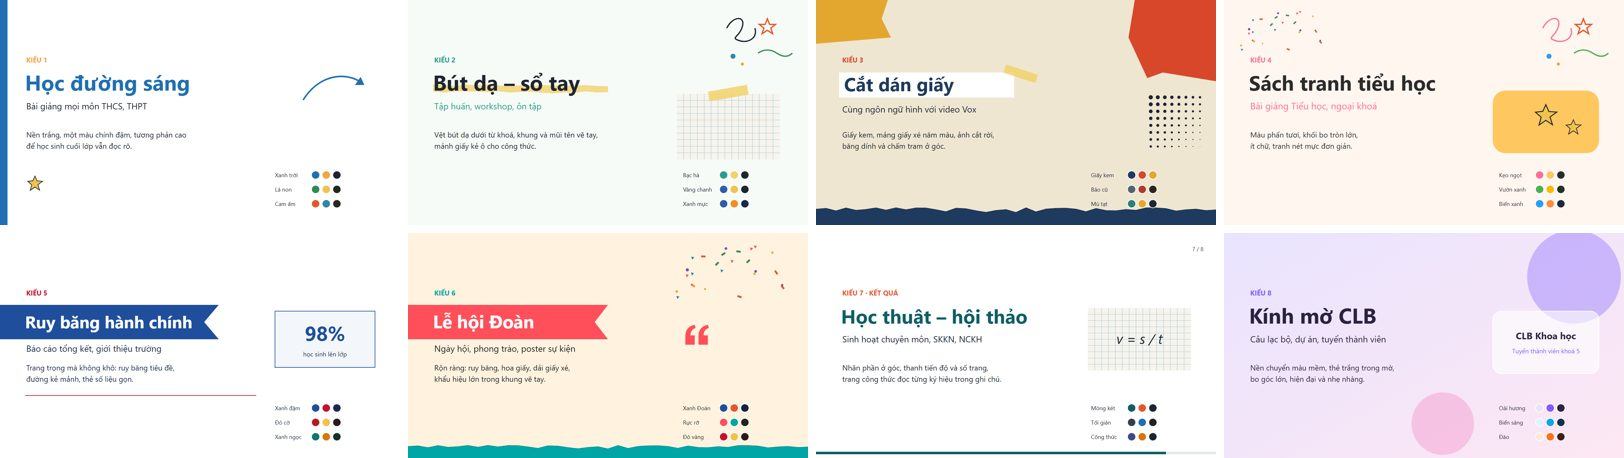
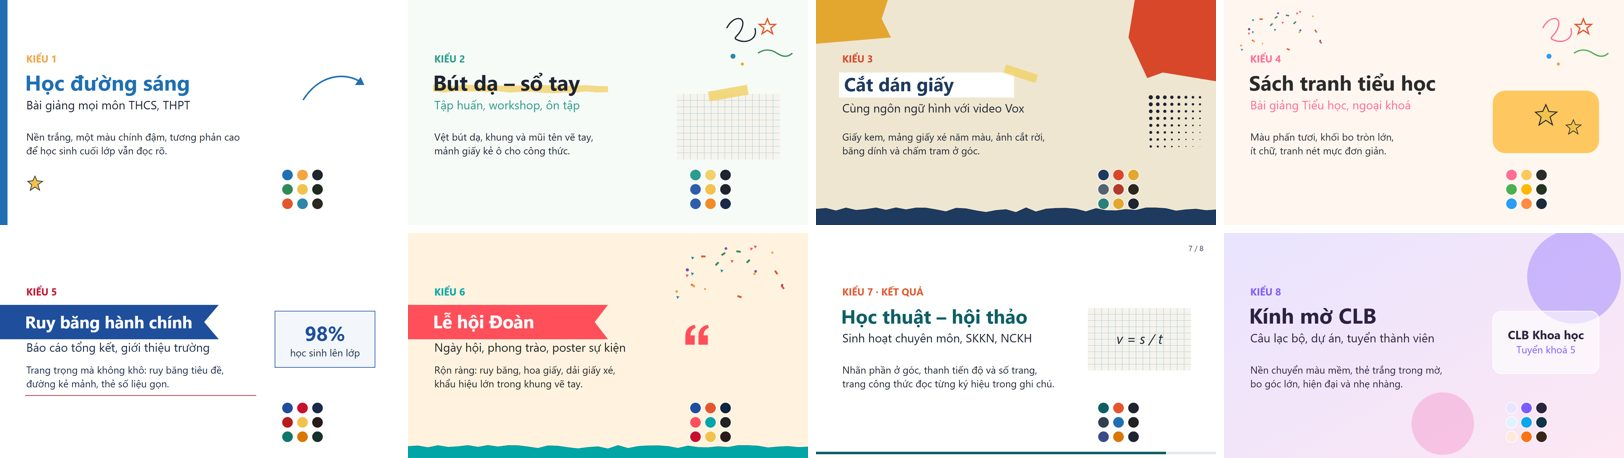
feat(vi): projection font-size floor for slides and kiem_co_chu.py
Slides for lessons, reports, Youth Union events and workshops (16:9, 4:3):
no text under 24pt, body from 28pt (24pt when 'nhieu chu'), titles from
36pt; image credits and page numbers from 18pt. Overrides the upstream
type-scale defaults (15-24pt body), which are too small to read when
projected. Guides state the SVG sizes (1px = 0.75pt: 32 / 38 / 48).

tools/vi/kiem_co_chu.py reads svg_output, resolves inherited font sizes,
and reports each line under the floor with the px needed; the AI runs it
before export. Other canvases (posters) are skipped. Sample style deck
image regenerated at the new sizes.

diff --git a/tools/vi/kiem_co_chu.py b/tools/vi/kiem_co_chu.py
@@ -1,0 +1,132 @@
+#!/usr/bin/env python3
+"""Kiểm cỡ chữ của slide trình chiếu trước khi xuất PPTX: không chữ nào dưới 24pt, trừ dòng ghi nguồn và số trang
+(từ 18pt). Đọc `svg_output/*.svg` của dự án, tính cỡ chữ thật của từng dòng (kể cả cỡ thừa hưởng từ `<svg>`, `<g>`),
+đổi sang pt theo cách bộ xuất của upstream đổi (1px SVG = 9525 EMU = 0,75pt).
+
+  python tools/vi/kiem_co_chu.py <thư_mục_dự_án> [--toi-thieu 24] [--noi-dung 28]
+
+stdout đúng một dòng JSON: {ready, so_trang, loi, canh_bao, bo_qua, error}. `loi` khác rỗng thì `ready` là false.
+Chỉ áp cho khổ trình chiếu 16:9 (1280×720) và 4:3 (1024×768); khổ khác (poster, story) ghi vào `bo_qua`.
+Hướng dẫn: docs/vi/tro-ly/quy-trinh-hoi.md mục "Cỡ chữ".
+"""
+
+from __future__ import annotations
+
+import argparse
+import json
+import re
+import sys
+import xml.etree.ElementTree as ET
+from pathlib import Path
+
+PT_MOI_PX = 0.75          # 9525 EMU / 12700 EMU mỗi pt
+TOI_THIEU = 24.0
+NOI_DUNG = 28.0
+PHU_TOI_THIEU = 18.0      # dòng ghi nguồn ảnh, số trang
+KHO_TRINH_CHIEU = {(1280, 720), (1024, 768)}
+NOI_DUNG_DAI = 40         # dòng từ chừng này ký tự trở lên coi là nội dung (nên từ 28pt)
+SVG = "{http://www.w3.org/2000/svg}"
+_SO_RE = re.compile(r"^\s*(-?\d+(?:\.\d+)?)\s*(px)?\s*$")
+_PHU_RE = re.compile(r"^\s*(nguồn|ảnh:|ảnh của|source|photo|©|\(c\)|cc by|cc0)", re.I)
+_SO_TRANG_RE = re.compile(r"^\s*\d{1,3}\s*(/\s*\d{1,3})?\s*$")
+
+
+def _co(el) -> float | None:
+    """Cỡ chữ khai trên chính phần tử (thuộc tính hoặc style), đơn vị px SVG."""
+    gia_tri = el.get("font-size")
+    kieu = el.get("style") or ""
+    m = re.search(r"font-size\s*:\s*([^;]+)", kieu)
+    if m:
+        gia_tri = m.group(1)
+    if gia_tri is None:
+        return None
+    m = _SO_RE.match(gia_tri)
+    return float(m.group(1)) if m else None
+
+
+def _chu(el) -> str:
+    return re.sub(r"\s+", " ", " ".join(x.strip() for x in el.itertext() if x.strip()))
+
+
+def _cac_dong(goc):
+    """(chữ, cỡ px nhỏ nhất của dòng) cho mỗi `<text>` ngoài `<defs>`; cỡ thừa hưởng theo cây."""
+    def di(el, co_cha, trong_defs):
+        ten = el.tag.replace(SVG, "")
+        co = _co(el) or co_cha
+        if ten == "defs":
+            trong_defs = True
+        if ten == "text" and not trong_defs:
+            cac_co = [co] if (el.text or "").strip() else []
+            for con in el.iter():
+                if con is el:
+                    continue
+                co_con = _co(con) or co
+                if (con.text or "").strip():
+                    cac_co.append(co_con)
+            cac_co = [c for c in cac_co if c is not None]
+            chu = _chu(el)
+            if chu and cac_co:
+                yield chu, min(cac_co)
+            return
+        for con in el:
+            yield from di(con, co, trong_defs)
+
+    yield from di(goc, _co(goc) or 16.0, False)
+
+
+def kiem_trang(duong: Path, toi_thieu: float, noi_dung: float) -> tuple:
+    goc = ET.parse(duong).getroot()
+    vb = [float(x) for x in (goc.get("viewBox") or "0 0 0 0").replace(",", " ").split()]
+    kho = (round(vb[2]), round(vb[3])) if len(vb) == 4 else (0, 0)
+    if kho not in KHO_TRINH_CHIEU:
+        return None, [], []
+    loi, canh_bao = [], []
+    for chu, px in _cac_dong(goc):
+        pt = round(px * PT_MOI_PX, 1)
+        phu = bool(_PHU_RE.match(chu) or _SO_TRANG_RE.match(chu))
+        san = PHU_TOI_THIEU if phu else toi_thieu
+        tom = chu if len(chu) <= 50 else chu[:47] + "…"
+        if pt < san - 0.05:
+            loi.append({"trang": duong.name, "chu": tom, "pt": pt, "toi_thieu": san,
+                        "px_can": round(san / PT_MOI_PX)})
+        elif not phu and len(chu) >= NOI_DUNG_DAI and pt < noi_dung - 0.05:
+            canh_bao.append({"trang": duong.name, "chu": tom, "pt": pt, "nen": noi_dung,
+                             "px_can": round(noi_dung / PT_MOI_PX)})
+    return kho, loi, canh_bao
+
+
+def chay(thu_muc: Path, toi_thieu: float, noi_dung: float) -> dict:
+    trang = sorted((thu_muc / "svg_output").glob("*.svg"))
+    if not trang:
+        raise FileNotFoundError(f"Không thấy trang SVG trong {thu_muc / 'svg_output'}.")
+    loi, canh_bao, bo_qua = [], [], []
+    for t in trang:
+        kho, l, c = kiem_trang(t, toi_thieu, noi_dung)
+        if kho is None:
+            bo_qua.append(t.name)
+            continue
+        loi += l
+        canh_bao += c
+    return {"so_trang": len(trang), "loi": loi, "canh_bao": canh_bao, "bo_qua": bo_qua}
+
+
+def main(argv=None) -> int:
+    ap = argparse.ArgumentParser(description="Kiểm cỡ chữ slide trình chiếu (tối thiểu 24pt)")
+    ap.add_argument("thu_muc")
+    ap.add_argument("--toi-thieu", type=float, default=TOI_THIEU)
+    ap.add_argument("--noi-dung", type=float, default=NOI_DUNG)
+    a = ap.parse_args(argv)
+    try:
+        kq = chay(Path(a.thu_muc), a.toi_thieu, a.noi_dung)
+        out = {"ready": not kq["loi"], **kq, "error": None}
+    except (OSError, ET.ParseError) as exc:
+        out = {"ready": False, "so_trang": 0, "loi": [], "canh_bao": [], "bo_qua": [],
+               "error": {"step": "input", "message": str(exc),
+                         "fix": "Chạy trên thư mục dự án có svg_output/ chứa các trang SVG."}}
+    sys.stdout.reconfigure(encoding="utf-8")
+    print(json.dumps(out, ensure_ascii=False))
+    return 0 if out["ready"] else 1
+
+
+if __name__ == "__main__":
+    sys.exit(main())

diff --git a/tools/vi/tests/test_kiem_co_chu.py b/tools/vi/tests/test_kiem_co_chu.py
@@ -1,0 +1,78 @@
+"""kiem_co_chu.py: cỡ chữ slide trình chiếu tối thiểu 24pt (1px SVG = 0,75pt), dòng nguồn và số trang từ 18pt."""
+import json
+import subprocess
+import sys
+import tempfile
+import unittest
+from pathlib import Path
+
+VI = Path(__file__).resolve().parents[1]
+sys.path.insert(0, str(VI))
+
+import kiem_co_chu  # noqa: E402
+
+DAU = '<svg xmlns="http://www.w3.org/2000/svg" width="{w}" height="{h}" viewBox="0 0 {w} {h}" font-family="Segoe UI" font-size="{goc}">'
+
+
+def trang(than, w=1280, h=720, goc=32):
+    return DAU.format(w=w, h=h, goc=goc) + than + "</svg>"
+
+
+class KiemCoChuTest(unittest.TestCase):
+    def chay(self, *cac_trang, **kw):
+        with tempfile.TemporaryDirectory() as tmp:
+            d = Path(tmp) / "svg_output"
+            d.mkdir()
+            for i, t in enumerate(cac_trang, 1):
+                (d / f"{i:02d}_t.svg").write_text(t, encoding="utf-8")
+            return kiem_co_chu.chay(Path(tmp), kw.get("toi_thieu", 24.0), kw.get("noi_dung", 28.0))
+
+    def test_px_to_pt_follows_the_exporter(self):
+        self.assertEqual(kiem_co_chu.PT_MOI_PX, 9525 / 12700)
+
+    def test_small_text_is_an_error_and_names_the_px_needed(self):
+        kq = self.chay(trang('<text x="10" y="40" font-size="24">Chữ nhỏ quá</text>'))
+        self.assertEqual(len(kq["loi"]), 1)
+        self.assertEqual((kq["loi"][0]["pt"], kq["loi"][0]["px_can"]), (18.0, 32))
+
+    def test_inherited_size_from_groups_and_tspans_counts(self):
+        kq = self.chay(trang('<g font-size="40"><text x="10" y="40">Đủ to</text>'
+                             '<text x="10" y="90">Dòng một<tspan x="10" dy="40" font-size="20">dòng hai nhỏ</tspan></text></g>'))
+        self.assertEqual([x["chu"] for x in kq["loi"]], ["Dòng một dòng hai nhỏ"])
+        self.assertEqual(kq["loi"][0]["pt"], 15.0)
+
+    def test_source_lines_and_page_numbers_may_be_smaller(self):
+        kq = self.chay(trang('<text x="10" y="700" font-size="24">Nguồn: Wikimedia Commons, CC BY-SA 4.0</text>'
+                             '<text x="1200" y="700" font-size="24">7 / 12</text>'
+                             '<text x="10" y="650" font-size="20">Nguồn: quá nhỏ</text>'))
+        self.assertEqual([x["chu"] for x in kq["loi"]], ["Nguồn: quá nhỏ"])
+        self.assertEqual(kq["loi"][0]["toi_thieu"], 18.0)
+
+    def test_long_body_lines_under_28pt_are_a_warning(self):
+        dai = "Một dòng nội dung đủ dài để được tính là thân bài trên slide"
+        kq = self.chay(trang(f'<text x="10" y="40" font-size="32">{dai}</text>'))
+        self.assertEqual(kq["loi"], [])
+        self.assertEqual(kq["canh_bao"][0]["px_can"], 37)
+
+    def test_text_inside_defs_and_non_projection_canvases_are_skipped(self):
+        kq = self.chay(trang('<defs><symbol id="s"><text font-size="10">x</text></symbol></defs>'),
+                       trang('<text font-size="12">poster</text>', w=1242, h=1660))
+        self.assertEqual((kq["loi"], kq["bo_qua"]), ([], ["02_t.svg"]))
+
+    def test_cli_prints_one_json_line_and_exits_non_zero_on_errors(self):
+        with tempfile.TemporaryDirectory() as tmp:
+            (Path(tmp) / "svg_output").mkdir()
+            (Path(tmp) / "svg_output" / "01.svg").write_text(trang('<text font-size="20">nhỏ</text>'), encoding="utf-8")
+            r = subprocess.run([sys.executable, str(VI / "kiem_co_chu.py"), tmp], capture_output=True, text=True,
+                               encoding="utf-8")
+            self.assertEqual(r.returncode, 1)
+            d = json.loads(r.stdout.strip().splitlines()[-1])
+            self.assertFalse(d["ready"])
+            self.assertIsNone(d["error"])
+            r2 = subprocess.run([sys.executable, str(VI / "kiem_co_chu.py"), str(Path(tmp) / "khong-co")],
+                                capture_output=True, text=True, encoding="utf-8")
+            self.assertEqual(json.loads(r2.stdout)["error"]["step"], "input")
+
+
+if __name__ == "__main__":
+    unittest.main()

diff --git a/docs/vi/tro-ly/quy-trinh-hoi.md b/docs/vi/tro-ly/quy-trinh-hoi.md
@@ -106,6 +106,20 @@ Mục này quy đổi lựa chọn của thầy cô về lượng chữ trên sl
 - Số dòng là định hướng để soát bài, không phải hạn mức cứng của upstream.
 - Ít chữ là chuyển chữ đi chỗ khác, không bỏ thông tin: phần giải thích vào lời giảng; nội dung không vừa một trang thì chia thêm trang; quá trình, so sánh, số liệu thì vẽ sơ đồ hoặc biểu đồ thay cho câu chữ. Quy tắc của upstream vẫn giữ nguyên: không bỏ thông tin chỉ để vừa bố cục.
 - Ở bước xác nhận của upstream, điền chế độ đọc đúng theo bảng; tạo nhanh thì áp chế độ đó khi tự quyết.
+
+Cỡ chữ cho slide trình chiếu (khổ `ppt169`, `ppt43`; chiếu lên màn hình lớp học, hội trường). Người dùng muốn chữ đủ to để ngồi cuối phòng vẫn đọc được; điều này thay cho bảng cỡ chữ mặc định của upstream (`skills/ppt-master/references/canvas-formats.md`, vốn cho thân bài 15–24pt):
+
+| Chữ | Tối thiểu | Cỡ trong SVG (1px = 0,75pt) |
+|---|---|---|
+| Mọi chữ trên slide | 24pt | `font-size` từ 32 |
+| Thân bài khi chọn ít chữ hoặc vừa | 28pt | từ 38 (nên 38–44) |
+| Thân bài khi chọn nhiều chữ | 24pt | từ 32 |
+| Tiêu đề trang | 36pt | từ 48 |
+| Dòng ghi nguồn ảnh, số trang | 18pt | từ 24 |
+
+- Chữ không vừa trang ở cỡ này thì rút gọn, tách trang hoặc chuyển phần giải thích vào lời giảng; không thu nhỏ chữ. Nhãn biểu đồ, chú thích ảnh, chữ trong sơ đồ cũng theo mức 24pt.
+- Áp cho Bài giảng, Báo cáo – tổng kết, Hoạt động Đoàn – sự kiện, Tập huấn/workshop, cả khi tạo nhanh. Poster/ấn phẩm Zalo – Facebook xem trên điện thoại, không chiếu, nên theo upstream.
+- Sau khi bộ kiểm cuối của upstream qua và trước khi xuất PPTX, chạy `python tools\vi\kiem_co_chu.py <thư_mục_dự_án>`. `ready` là `false` thì sửa từng dòng trong `loi` lên đúng `px_can` (sửa bố cục nếu chữ to ra bị tràn), chạy lại bộ kiểm của upstream rồi chạy lại lệnh này. `canh_bao` là dòng thân bài dài còn dưới 28pt: sửa khi chế độ đọc là ít chữ hoặc vừa.
 - Làm đẹp slide có sẵn (Beautify) giữ nguyên văn từng chữ và từng trang. Thầy cô muốn làm đẹp mà ít chữ hơn, rút gọn, tách hay gộp trang: không dùng Beautify, mà tạo mới từ file đó (file PPTX cũ làm tài liệu nguồn) theo loại việc phù hợp và mật độ chữ thầy cô chọn. Nói trước với thầy cô một dòng rằng bài sẽ được dựng lại, không chỉ đổi giao diện.
 
 ## Kiểu nhìn

diff --git a/AGENTS.vi.md b/AGENTS.vi.md
@@ -83,6 +83,7 @@ Khi người dùng viết tiếng Việt và yêu cầu thuộc một trong 11 l
 
 - `SKILL.md` vẫn được ưu tiên. Lượt hỏi này chỉ tạo thêm tài liệu nguồn; bước xác nhận của upstream vẫn bắt buộc, trừ khi người dùng yêu cầu tạo nhanh (xem mục 3) hoặc thuộc loại việc "Soạn đề KHTN tiếng Anh" (mục 12), "Soạn giáo án tích hợp năng lực số và năng lực AI" (mục 13), "Thí nghiệm ảo" (mục 14), "Video giải thích" (mục 15) hoặc "Soạn văn bản hành chính (Nghị định 30)" (mục 16) — năm loại việc đó không có bước xác nhận của upstream, xem mục 12, mục 13, mục 14, mục 15 và mục 16. Khi tạo nhanh, kể cả với "không cần hỏi lại", vẫn đọc `docs/vi/tro-ly/quy-trinh-hoi.md` và làm theo mục "Tạo nhanh" của file đó: có thể không hỏi câu nào, nhưng vẫn ghi brief.
 - Hiệu ứng: làm theo mức trong brief và [docs/vi/tro-ly/hieu-ung-lop-hoc.md](docs/vi/tro-ly/hieu-ung-lop-hoc.md). Bài giảng, báo cáo, hoạt động Đoàn, tập huấn: sau khi xuất PPTX, chạy `tools\vi\kiem_hieu_ung.py <file.pptx> --muc <mức>`, sửa tối đa một lần rồi báo kết quả cho thầy cô.
+- Cỡ chữ slide trình chiếu (Bài giảng, Báo cáo – tổng kết, Hoạt động Đoàn – sự kiện, Tập huấn/workshop): không chữ nào dưới 24pt (`font-size` 32 trong SVG), thân bài từ 28pt (38), tiêu đề từ 36pt (48); dòng ghi nguồn và số trang từ 18pt. Trước khi xuất PPTX chạy `tools\vi\kiem_co_chu.py <thư_mục_dự_án>` và sửa tới khi `ready` là `true`. Chi tiết ở mục "Mật độ chữ" của `docs/vi/tro-ly/quy-trinh-hoi.md`.
 - Bài mới dạng PPTX (Bài giảng, Báo cáo – tổng kết, Hoạt động Đoàn – sự kiện, Poster/ấn phẩm Zalo – Facebook, Tập huấn/workshop) không làm toàn chữ: chọn nguồn ảnh cho từng trang theo mục "Ảnh minh hoạ" của `docs/vi/tro-ly/quy-trinh-hoi.md`, kể cả khi tạo nhanh.
 - Câu lệnh khớp hai loại việc: từ chỉ dạng đầu ra thắng "thông báo", "quyết định" ("Làm poster Zalo thông báo họp phụ huynh" là Poster); tên loại văn bản đứng ngay sau động từ soạn thảo thắng các từ chủ đề ("Soạn công văn cử giáo viên đi tập huấn" là văn bản hành chính). Chi tiết ở mục "Khi nào áp dụng" của `docs/vi/tro-ly/quy-trinh-hoi.md`.
 - Yêu cầu không thuộc 11 loại (bối cảnh trường học hay Đoàn một mình không đủ để xếp loại), hoặc người dùng không viết tiếng Việt: làm theo `SKILL.md` như bình thường, không tìm hồ sơ đơn vị và không dùng bộ câu hỏi Việt.

diff --git a/.agents/rules/ppt-master-vi.md b/.agents/rules/ppt-master-vi.md
@@ -48,7 +48,7 @@ Bài mới thuộc 5 loại việc tạo PPTX ở bảng trên, kể cả tạo 
 
 ## Mật độ chữ
 
-Bài giảng, Báo cáo – tổng kết, Hoạt động Đoàn – sự kiện, Tập huấn/workshop hỏi mật độ chữ: ít chữ → `presentation`, vừa → `balanced`, nhiều chữ → `text`; chưa chọn thì báo cáo vừa, ba loại kia ít chữ. Ít chữ: mỗi trang một ý, khoảng 5 dòng, giải thích vào lời giảng; không vừa thì chia trang, không bỏ thông tin. Muốn làm đẹp slide có sẵn mà ít chữ hơn, tách hay gộp trang: không dùng Beautify, tạo mới từ file đó như tài liệu nguồn.
+Bài giảng, Báo cáo – tổng kết, Hoạt động Đoàn – sự kiện, Tập huấn/workshop hỏi mật độ chữ: ít chữ → `presentation`, vừa → `balanced`, nhiều chữ → `text`; chưa chọn thì báo cáo vừa, ba loại kia ít chữ. Cỡ chữ trình chiếu: không chữ nào dưới 24pt (SVG `font-size` 32), thân bài từ 28pt (38), tiêu đề từ 36pt (48); nguồn ảnh, số trang từ 18pt; trước khi xuất chạy `tools\vi\kiem_co_chu.py <dự án>` tới khi `ready` true. Ít chữ: mỗi trang một ý, khoảng 5 dòng, giải thích vào lời giảng; không vừa thì chia trang, không bỏ thông tin. Muốn làm đẹp slide có sẵn mà ít chữ hơn, tách hay gộp trang: không dùng Beautify, tạo mới từ file đó như tài liệu nguồn.
 
 ## Kiểu nhìn
 

diff --git a/CHANGELOG-VI.md b/CHANGELOG-VI.md
@@ -1,5 +1,11 @@
 # Nhật ký thay đổi — Bản Việt
 
+## Chưa phát hành
+
+### Thêm
+- Cỡ chữ slide trình chiếu (bài giảng, báo cáo, hoạt động Đoàn, tập huấn; khổ 16:9 và 4:3): không chữ nào dưới 24pt, thân bài từ 28pt (chọn "nhiều chữ" thì 24pt), tiêu đề từ 36pt; dòng ghi nguồn ảnh và số trang từ 18pt. Thay bảng cỡ chữ mặc định của upstream (thân bài 15–24pt) vì chữ nhỏ chiếu lên khó đọc. Hướng dẫn ghi rõ cỡ tương ứng trong SVG (1px = 0,75pt: 24pt = 32, 28pt = 38, 36pt = 48).
+- `tools/vi/kiem_co_chu.py`: đọc các trang SVG của dự án, tính cỡ chữ thật (kể cả thừa hưởng từ nhóm), báo dòng nào dưới mức và cỡ px cần sửa; AI chạy trước khi xuất PPTX. Poster mạng xã hội (khổ khác) không áp.
+
 ## 6.3.2-vi.22 — 2026-10-19
 
 Video Vox có thêm bố cục `dung-canh`: mỗi cảnh kể chuyện là một tranh giấy cắt nhiều lớp (hậu cảnh, vai phụ, vai chính, tiền cảnh), học từ video "hoạt hình giấy cắt có chiều sâu". Video ngắn làm lại thành "nhịp hình" (thiết kế `docs/vi/phat-trien/2026-10-19-video-ngan-nhip-hinh-thiet-ke.md`), học từ các kênh TikTok tham khảo: hình đổi theo từng cụm lời, mỗi màn một hình chính, nhân vật minh hoạ, phụ đề từ khoá nổi bật. Thay hẳn bản nền neon (vi.17).

diff --git a/docs/vi/tro-ly/bai-giang.md b/docs/vi/tro-ly/bai-giang.md
@@ -61,7 +61,7 @@ Ví dụ câu lệnh:
 
 - Kiểu nhìn theo `docs/vi/tro-ly/kieu-slide.md`: mặc định Học đường sáng (THCS, THPT) hoặc Sách tranh tiểu học (Tiểu học); thầy cô gọi tên kiểu khác thì theo kiểu đó.
 - Học đường, sáng rõ, nền sáng, tương phản cao để học sinh cuối lớp vẫn đọc được.
-- Chữ nội dung từ 28pt; font Segoe UI hoặc Arial.
+- Chữ nội dung từ 28pt, không chữ nào dưới 24pt (mục "Mật độ chữ" của `quy-trinh-hoi.md`); font Segoe UI hoặc Arial.
 - Đề xuất mode `instructional` của upstream.
 - Khi dùng máy chiếu 4:3 có thể đề xuất layout `presentation_core_43` của upstream.
 
